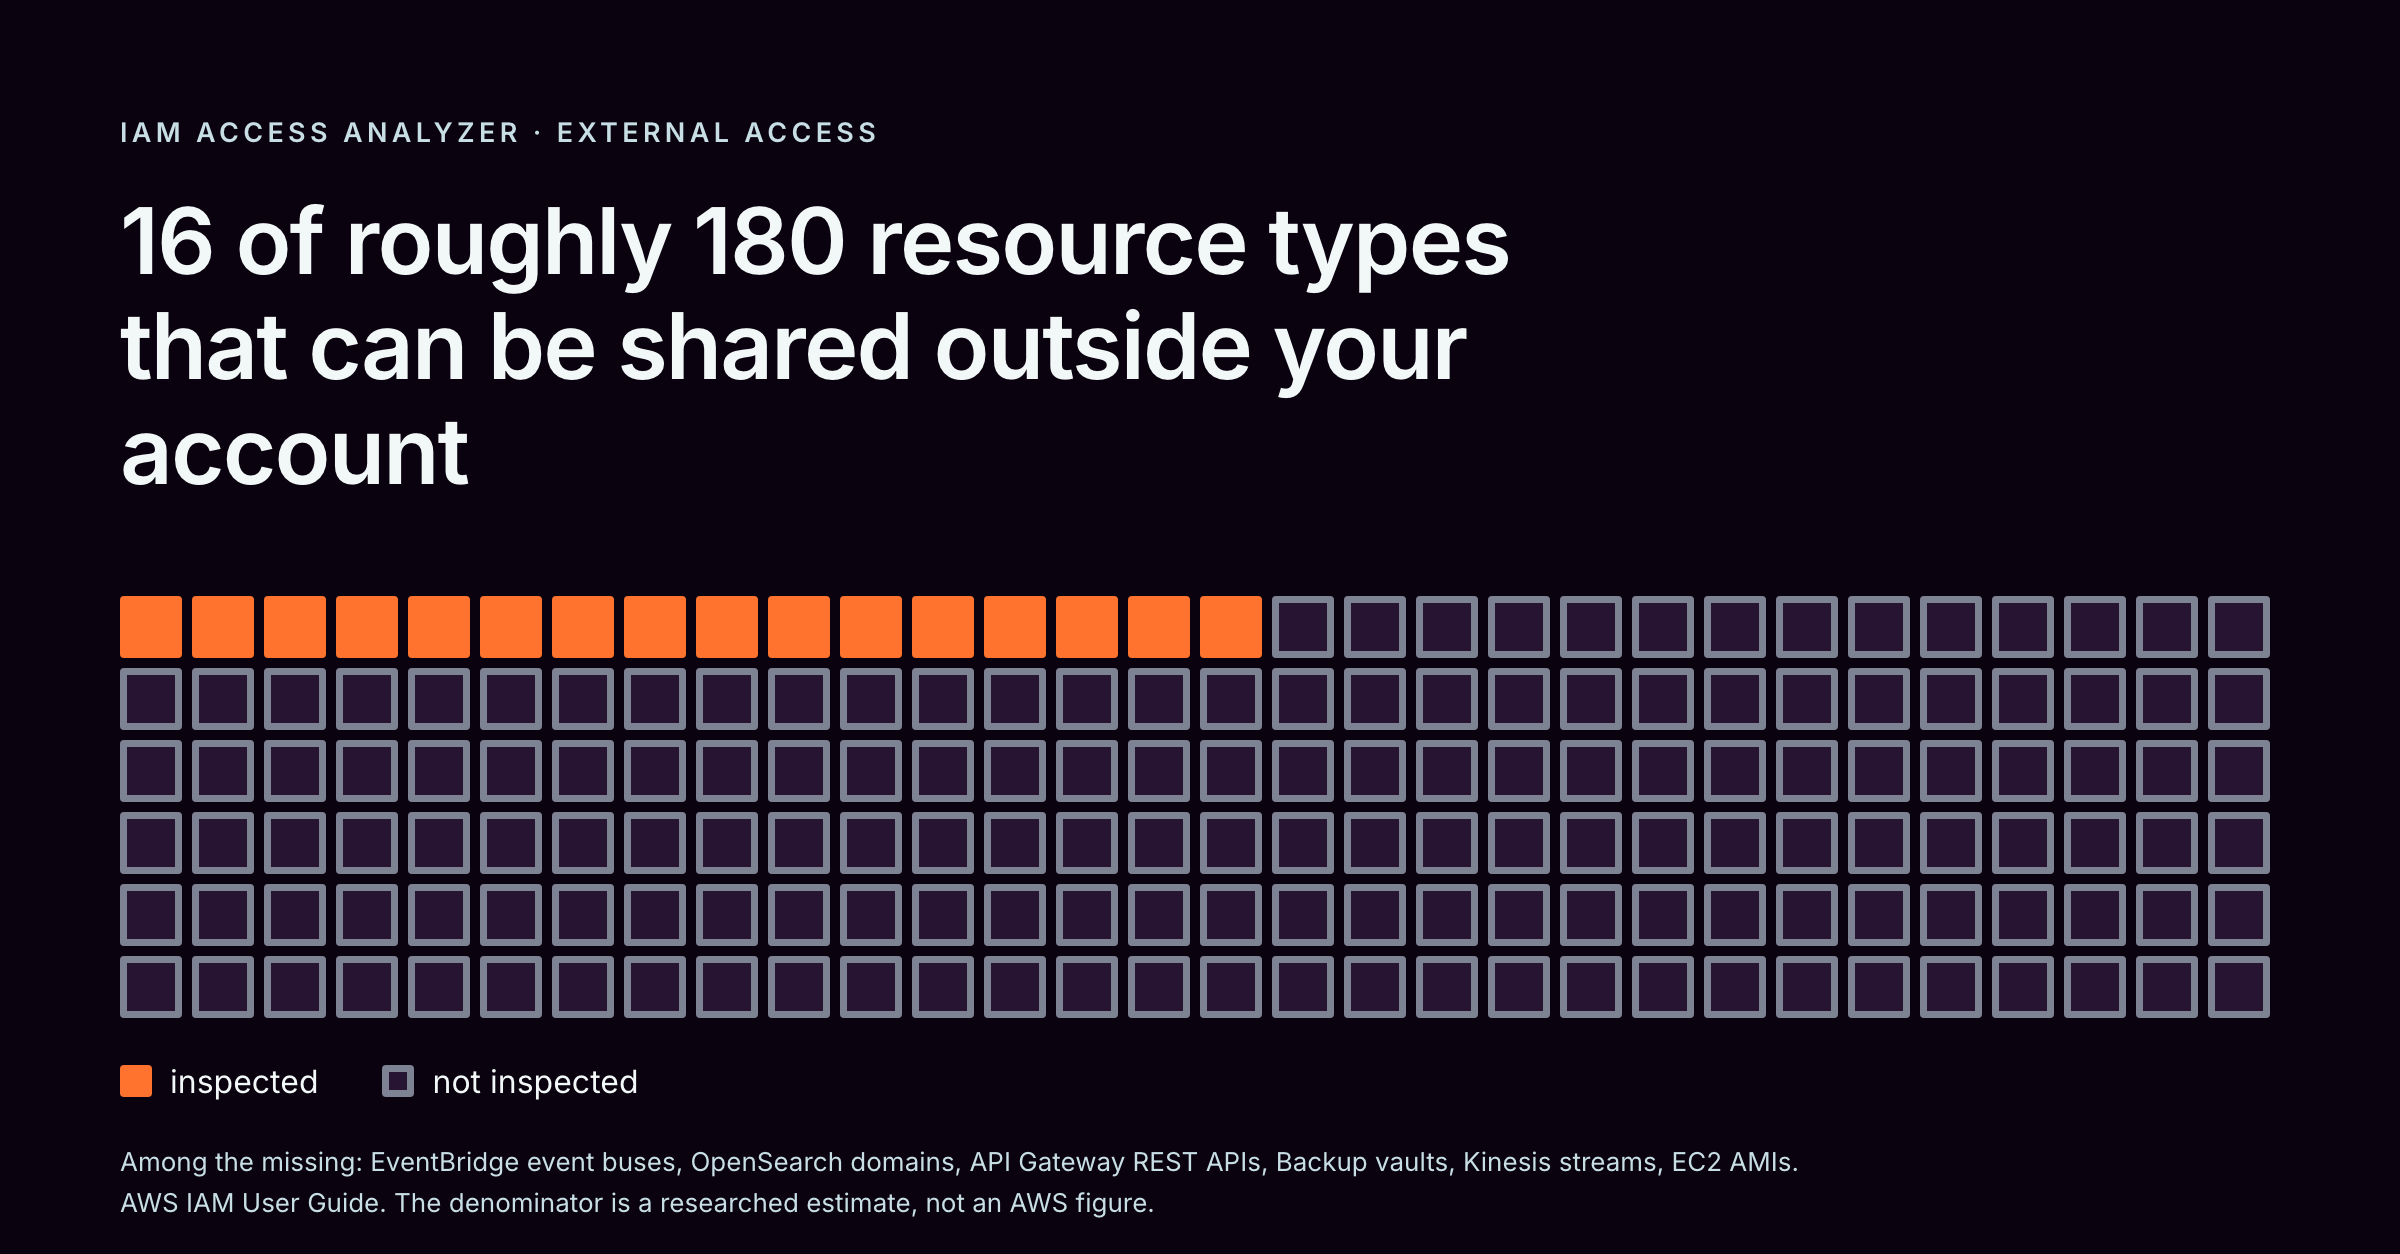
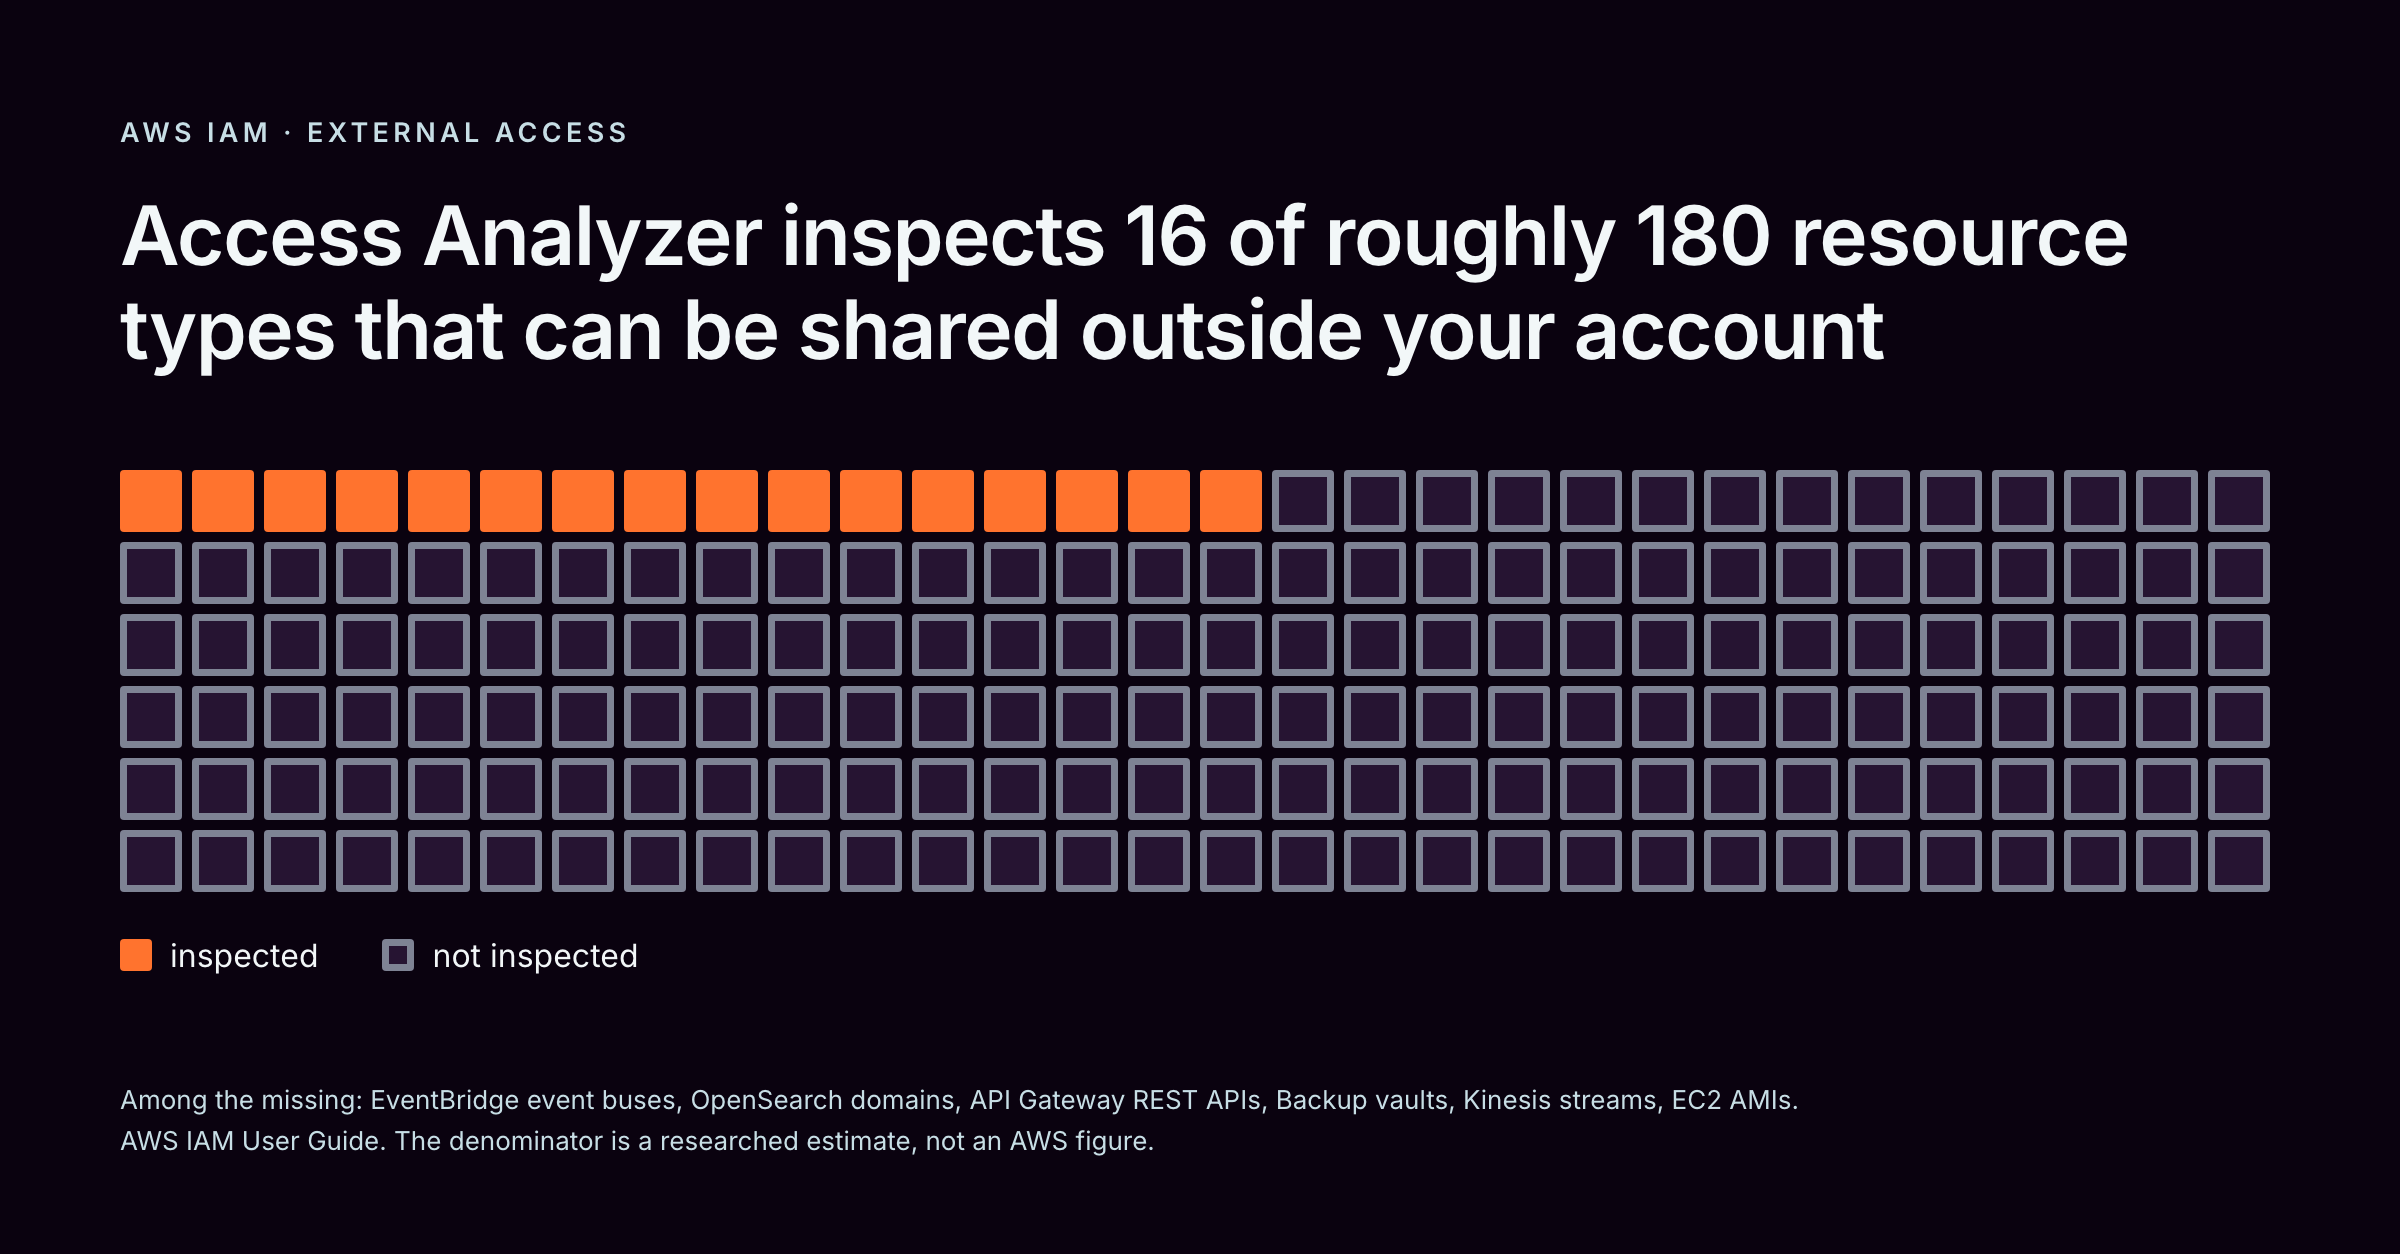
Title spans the full width and names Access Analyzer

diff --git a/docs/social/access-analyzer-external-access.html b/docs/social/access-analyzer-external-access.html
@@ -11,7 +11,7 @@ body{background:var(--bg); color:var(--cloud); font-family:Inter,-apple-system,s
   padding:58px 60px 46px; display:flex; flex-direction:column; -webkit-font-smoothing:antialiased}
 .eyebrow{font-size:13.5px; font-weight:600; letter-spacing:.16em; text-transform:uppercase;
   color:var(--cloud-mid); margin-bottom:20px}
-h1{font-size:46px; font-weight:600; line-height:1.14; letter-spacing:-.02em; max-width:24ch}
+h1{font-size:41px; font-weight:600; line-height:1.15; letter-spacing:-.02em}
 #grid{display:grid; grid-template-columns:repeat(30,31px); gap:5px; margin-top:46px}
 #grid i{display:block; width:31px; height:31px; border-radius:2px}
 i.on{background:var(--orange)}
@@ -23,8 +23,8 @@ i.off{background:var(--deep); box-shadow:inset 0 0 0 3.5px rgba(199,222,229,.55)
 .legend span.off{background:var(--deep); box-shadow:inset 0 0 0 3.5px rgba(199,222,229,.55)}
 .src{margin-top:auto; padding-top:20px; font-size:13px; color:var(--cloud-mid); line-height:1.6}
 </style></head><body>
-  <div class="eyebrow">IAM Access Analyzer &middot; external access</div>
-  <h1>16 of roughly 180 resource types that can be shared outside your account</h1>
+  <div class="eyebrow">AWS IAM &middot; external access</div>
+  <h1>Access Analyzer inspects 16 of roughly 180 resource types that can be shared outside your account</h1>
   <div id="grid"></div>
   <div class="legend">
     <div><span class="on"></span>inspected</div>
